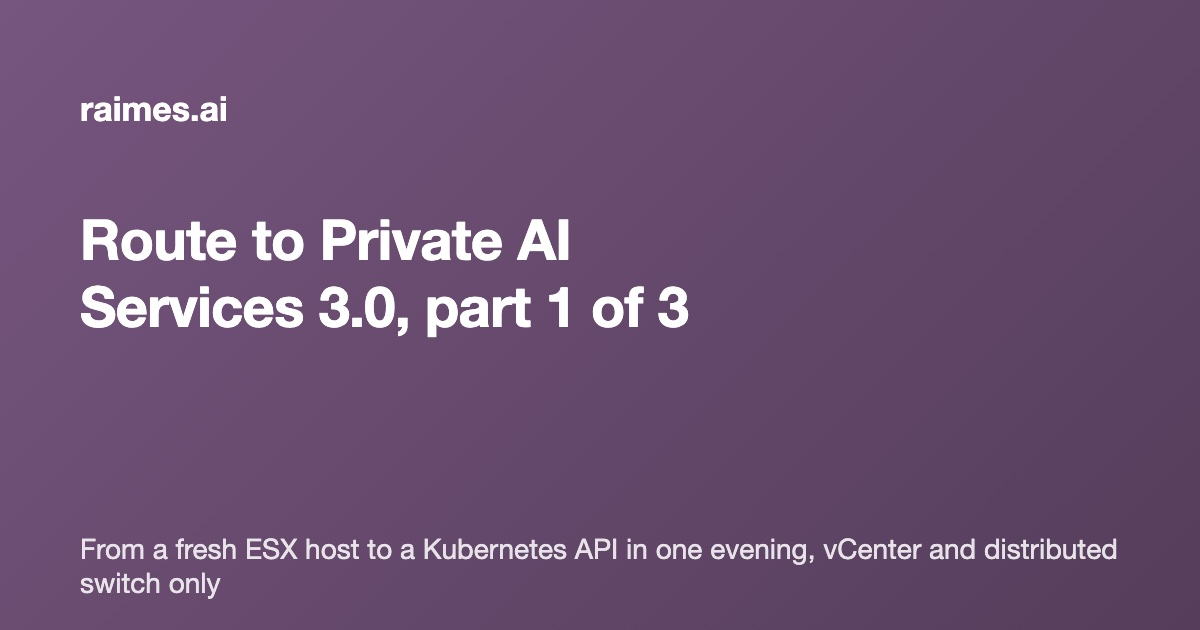
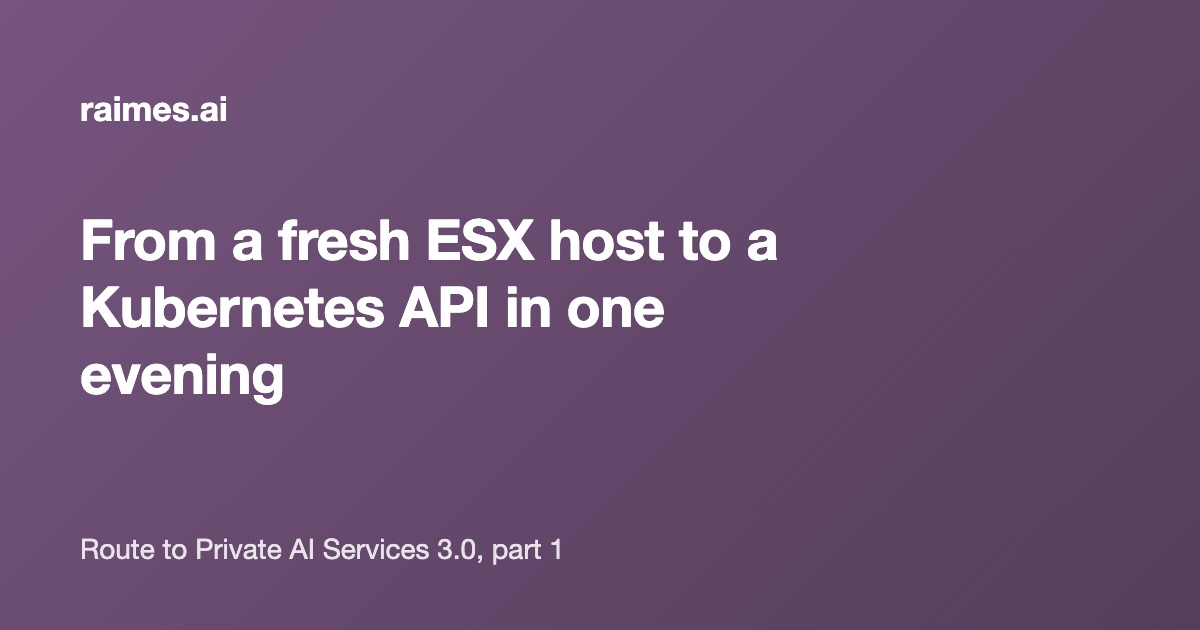
Route to PAIS parts 1 and 2: drop "of 3", link part 3 and the 15-steps overview, A5000 instead of 3090, covers re-rendered

Changed region(s): [[0.0617, 0.8444, 0.925, 0.9651], [0.0617, 0.4524, 0.5858, 0.6635], [0.0617, 0.3317, 0.6475, 0.4222]]

diff --git a/content/posts/kubernetes-api-on-vsphere-in-one-evening.md b/content/posts/kubernetes-api-on-vsphere-in-one-evening.md
@@ -14,7 +14,7 @@ linkedin: "https://www.linkedin.com/feed/update/urn:li:activity:7518036658362155
 
 I have installed ESX and vCenter by hand many times. DNS records, Network Time Protocol (NTP), a distributed switch, a storage policy, then the long road to anything that looks like Kubernetes: an NSX Manager or an external load balancer, certificates, a second appliance to look after. This evening was different. From a freshly installed ESX host to a Kubernetes API that answers on its own name took one evening, and the part I expected to take longest, the Supervisor activation, was the shortest step of all.
 
-This is part 1 of 3 on my route to Private AI Services (PAIS) 3.0 on a plain vSphere and vCenter basis: vCenter and a vSphere Distributed Switch, no NSX, no VMware Cloud Foundation (VCF) Automation. PAIS 3.0 is fully supported on that basis, and that is what the lab rebuilds. I would like to have the multi-tenancy and the NSX-based Virtual Private Cloud (VPC) networking of VCF as well, but the lab is small. Within a few hours I had every platform prerequisite for that deployment in place: the Supervisor with its load balancer, the Kubernetes Service, the Local Consumption Interface in vCenter, a content library with Kubernetes releases, a namespace for PAIS and a registry appliance. The registry appliance is the VCF Infrastructure Services (VIS) Fling. It is meant for labs and proofs of concept and is not a supported way to run a registry in production. Part 2 activates PAIS without a GPU and puts a public model (Claude) behind its gateway, part 3 brings the local GPU.
+This is part 1 of my route to Private AI Services (PAIS) 3.0 on a plain vSphere and vCenter basis: vCenter and a vSphere Distributed Switch, no NSX, no VMware Cloud Foundation (VCF) Automation. PAIS 3.0 is fully supported on that basis, and that is what the lab rebuilds. I would like to have the multi-tenancy and the NSX-based Virtual Private Cloud (VPC) networking of VCF as well, but the lab is small. Within a few hours I had every platform prerequisite for that deployment in place: the Supervisor with its load balancer, the Kubernetes Service, the Local Consumption Interface in vCenter, a content library with Kubernetes releases, a namespace for PAIS and a registry appliance. The registry appliance is the VCF Infrastructure Services (VIS) Fling. It is meant for labs and proofs of concept and is not a supported way to run a registry in production. Part 2 activates PAIS without a GPU and puts a public model (Claude) behind its gateway, part 3 brings the local GPU.
 
 ![vSphere Client inventory at the end of the evening: cluster01 with the ESX host, the namespaces pais, svc-cci-ns, svc-tkg and svc-velero, the load balancer VM flb-sv01, the Supervisor control plane VM, vCenter and the registry appliance vis](/images/kubernetes-api-on-vsphere-in-one-evening/vcenter-inventory.png)
 *The whole lab at the end of the evening: one host, one cluster, the Supervisor with one control plane VM and one load balancer VM, four namespaces, vCenter and a registry appliance.*
@@ -230,4 +230,4 @@ Subscribe to `https://wp-content.broadcom.com/v2/latest/lib.json`, accept the ce
 - **Set the API server DNS name in the wizard.** It costs one field and gives you a certificate with a real name.
 - **Keep the watch loop.** The addresses come up one after another, so the seven minutes are easy to follow.
 
-That closes part 1: every platform prerequisite for a vCenter- and distributed-switch-only PAIS deployment is in place, built in a few hours. Part 2 is PAIS 3.0 on this Supervisor without a GPU: the service definition (and why the file with `-external` in its name is the right one without VCF Automation), the registry credentials, the activation, and a public model behind the gateway. Part 3 adds the local GPU.
+That closes part 1: every platform prerequisite for a vCenter- and distributed-switch-only PAIS deployment is in place, built in a few hours. [Part 2](/posts/private-ai-services-without-a-gpu/) is PAIS 3.0 on this Supervisor without a GPU: the service definition (and why the file with `-external` in its name is the right one without VCF Automation), the registry credentials, the activation, and a public model behind the gateway. [Part 3](/posts/rtx-a5000-behind-the-same-service-name/) adds the local GPU. The series has grown since then. The [overview in 15 steps](/posts/private-ai-services-on-one-host-in-15-steps/) lists every part.

diff --git a/content/posts/private-ai-services-without-a-gpu.md b/content/posts/private-ai-services-without-a-gpu.md
@@ -223,4 +223,4 @@ The cost side, because the gateway is the place where you see it: almost 100,000
 - **Start with a public model on purpose.** It proves the whole chain (DNS, load balancer, gateway, auth, token) before any GPU is in the box. In part 3 the only change for the client is the model name.
 - **Trim tool results before they reach the model.** The concierge already drops `managedFields`; it should also cut events and status down to what matters, because input tokens are billed.
 
-Part 3 brings the RTX 3090 into the server, a VM class with the GPU in passthrough, and a local model next to Claude behind the same gateway. Then the concierge asks the same question twice, once per model, and I compare answers, tokens and time.
+[Part 3](/posts/rtx-a5000-behind-the-same-service-name/) brings a refurbished RTX A5000 into the server, a VM class with the GPU in passthrough, and a local model next to Claude behind the same gateway. When I wrote this part, the plan was an RTX 3090; that card was sold before part 3.
